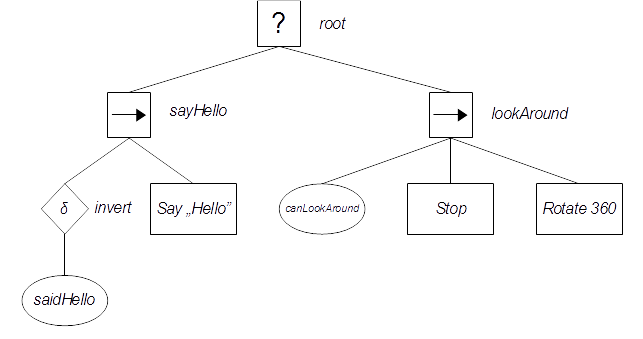
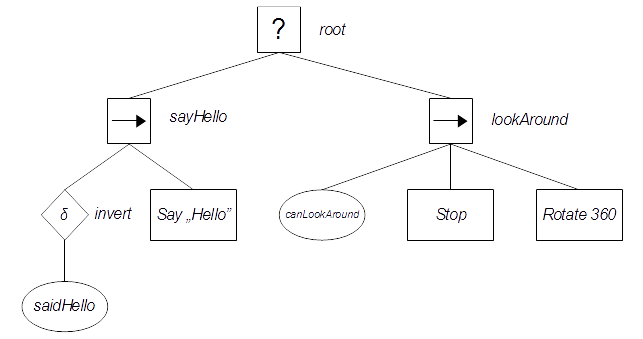
Edited the example in main.cpp. Corrected example_behavior_tree.png graphics. Finished readme.

diff --git a/main.cpp b/main.cpp
@@ -29,7 +29,6 @@
 class Actor
 {
 public:
-
     Actor(): said_hello{false},
              rotating{false}
     {
@@ -60,7 +59,7 @@ public:
         static int stopped_counter = 0;
         ++stopped_counter;
 
-        if(stopped_counter % 3) // 2/3 of checks will fail
+        if(stopped_counter % 3 == 0) // 2/3 of checks will fail
         {
             return true;
         }
@@ -81,7 +80,7 @@ public:
 
         ++rotate_counter;
 
-        if(rotate_counter % 5) // 4/5 of checks will confirm that actor is rotating
+        if(rotate_counter % 5 == 0) // 4/5 of checks will confirm that actor is rotating
         {
             return false;
         }
@@ -119,7 +118,7 @@ int main()
 
     example_tree.add_invert();
 
-    // go to first child of 'sayHello' sequence node:
+    // go to first child of invert decorator node:
     example_tree.set_at_relatively(0);
 
     // saidHello condition node:
@@ -172,7 +171,7 @@ int main()
     // If we want to evaluate whole tree, we have to set root node as active:
     example_tree.set_at_absolutely();
 
-    for(int i = 0; i < 15; ++i)
+    for(int i = 0; i < 50; ++i)
     {
         std::cout << i << " iteration\n";
 

diff --git a/README.md b/README.md
@@ -7,15 +7,18 @@ More about BT concept you can find in [Doctoral Thesis "Behavior Trees in Roboti
 ## How does it work?
 
 It defines basic types of nodes used in behavior trees, like composites (selector and sequence), decorators (link, inversion, loop) and primitives (action and condition).
-To provide resource-safe interface exists `BehaviorTree` class, which is kind of manager for raw behavior nodes.
 
-At first you have to create instance of `BehaviorTree` class and fill it with behavior nodes. Then you can call `evaluate()` method on it and check tree's status, probably in some periodic way. 
+To provide uniform interface there is implemented `BehaviorTree` class, which is an manager for raw behavior nodes.
+
+At first you have to create instance of `BehaviorTree` class and fill it with behavior nodes. Then you can call `evaluate()` method on it and check tree's status, probably in some periodic way.
+
+For more please look at the [example]() section.
 
 ## Structure of project
 
-Code of the BT system is located in 'behavior_system' directory.
-There is also 'external' directory, which contains [Catch](https://github.com/catchorg/Catch2) library header.
-Last part of repository is 'unit_tests' directory which contains unit tests of the BT system.
+Code of the BT system is located in *behavior_system* directory.
+There is also *external* directory, which contains [Catch](https://github.com/catchorg/Catch2) library header.
+Last part of repository is *unit_tests* directory which contains unit tests of the BT system.
 
 Behavior system is main part of project: it contains definitions of nodes and tree structure. 
 
@@ -30,9 +33,14 @@ Class `IBehavior` [source: [[1]](./behavior_system/IBehavior.hpp) [[2]](./behavi
 1. `DecoratorLink` - [source: [[1]](./behavior_system/decorator/DecoratorLink.hpp) [[2]](./behavior_system/decorator/DecoratorLink.cpp)],
 1. `DecoratorMaxNTries` - [source: [[1]](./behavior_system/decorator/DecoratorMaxNTries.hpp) [[2]](./behavior_system/decorator/DecoratorMaxNTries.cpp)].
 
-`BehaviorTree` class is implemented in 'behavior_system/tree' directory [source: [[1]](./behavior_system/tree/BehaviorTree.hpp) [[2]](./behavior_system/tree/BehaviorTree.cpp)].
+`BehaviorTree` class is implemented in *behavior_system/tree* directory [source: [[1]](./behavior_system/tree/BehaviorTree.hpp) [[2]](./behavior_system/tree/BehaviorTree.cpp)].
+
+BT system is prepared for use with an graphical editor, necessary data for rendering an tree are stored in _EditorMetadata_ files [[[1]](./behavior_system/EditorMetadata.hpp) [[2]](./behavior_system/EditorMetadata.cpp)]. The source code of editor should appears on my GH in close future. :) 
 
 ## How to use this code?
+
+To make use of this project just import *behavior_system* directory ito your own project.
+To use `BehaviorTree` class, include *behavior_system/tree/BehaviorTree.hpp* file. 
 
 Basic idea is simple:
 1. create `BehaviorTree` object,
@@ -48,11 +56,44 @@ Basic idea is simple:
 1. send another evaluation signal,
 1. check return status,
 1. ...  
+
+For more please look at the [example]() section.
+
+To make your own behavior node type:
+* Create class with `IBehavior` class as a base.
+* Override `BehaviorState internal_evaluate(id_t id)` method with designed behavior.
+  > Parameter `id_t id` points to particular child to evaluation (it's an index for `IBehavior::ptr get_child_for_eval(id_t id)` method).
   
+* [optional] Override others virtual methods, for example `bool can_have_children()`.
+* Extend the `BehaviorTree` class by `bool add_my_new_fancy_behavior_node(some_optional parameters_if_needed)`.
+ 
+## Who will use this project?
+
+Everyone who needs behavior trees' based AI system. :) Project is distributed under [MIT license](https://opensource.org/licenses/MIT).
+
+## What is the purpose of this project?
+
+This project was designed as a part of my BSc thesis - "The control system of an autonomous mobile robot based on behavioral tree". The robot runs on ARM Cortex processor so in the code you can find parts designed for ARM architecture, but whole system is fully portable - source code is completely compatible with ISO C++14 standard. The main goal in the implementation was portability - you can use the system in embedded environment or in PC game for example.
+
+## Todo
+
+* *Parallel* node is nice to have feature.
+* Maybe get rid of the inheritance model for behavior nodes and _templatize_ them?
+* There is need to keep some data which could be shared between nodes in a tree.
+  > some kind of dictionary (ID and value)?
+ 
+
+
+
+And a bit trivial things to do:
+* Add a namespace for project classes.
+* Add a bit more friendly to remember header for including `BehaviorTree` interface. 
 
 ## An example
 
-Lets assume that we want to create behavior tree like this one:
+_[complete example is located in [main.cpp](./main.cpp) file]_
+
+Let assume that we want to create behavior tree like this one:
 
 ![Example behavior tree](./example_behavior_tree.png)
 
@@ -64,7 +105,6 @@ Let assume that we have some class where `saidHello` is an bool member variable,
 class Actor
 {
 public:
-
     Actor(): said_hello{false},
              rotating{false}
     {
@@ -95,7 +135,7 @@ public:
         static int stopped_counter = 0;
         ++stopped_counter;
 
-        if(stopped_counter % 3) // 2/3 of checks will fail
+        if(stopped_counter % 3 == 0) // 2/3 of checks will fail
         {
             return true;
         }
@@ -103,7 +143,8 @@ public:
     }
 
     void stop()
-    {}
+    {
+    }
 
     bool is_still_rotating()
     {
@@ -115,7 +156,7 @@ public:
 
         ++rotate_counter;
 
-        if(rotate_counter % 5) // 4/5 of checks will confirm that actor is rotating
+        if(rotate_counter % 5 == 0) // 4/5 of checks will confirm that actor is rotating
         {
             return false;
         }
@@ -133,7 +174,7 @@ public:
     }
 
     bool said_hello;
-    
+
 private:
     bool rotating;
 };
@@ -157,45 +198,67 @@ BehaviorTree example_tree;
 example_tree.add_selector(); // root
 ```
    
-After creation of the root node, `BehaviorTree` automatically makes root active node. Now you can add children to root (beware: after adding any child except root, `BehaviorTree` WILL NOT automatically make it's active - this works only for root node!): 
+After creation of the root node, `BehaviorTree` automatically makes root active node. Now you can add children to root **(beware: after adding any child except root, `BehaviorTree` WILL NOT automatically make it's active - this works only for root node!)**: 
 
 ```C++
 example_tree.add_sequence(); // sayHello
 example_tree.add_sequence(); // lookAround
 ```  
 
-Now we have all of explicit root's children. Let's make "sayHello" node complete. First of all we have to make it's as active (for guidance look at [this](sfd)). 
+Now we have all of explicit root's children. Let's make "sayHello" node complete. First of all we have to make it as active.
+
+> #### Making node active
+>
+> To accomplish this task we can use two methods:
+> * `bool set_at_absolutely(ID id, ID id, ...)`
+>    
+>   This method choose active node as relative to root node. You can treat the parameter list as a path to wanted node. An ID is a zero-based index of children. Each subsequent identifier refers to the next level lower in the hierarchy. If you write `tree.set_at_absolutely(1, 3);`, you set as active fourth child of second child of root - if it exists method returns true, otherwise returns false and active node will not be change. Empty parameter list selects as active root node.
+>   
+> * `bool set_at_relatively(ID id, ID id, ...)`
+>
+>   This method choose active node as relative to currently active one. All the rules remain unchanged. Empty parameter list means "set as active node that node which is currently active", so it does not make any change. :)
+>   
+> As an short example please look at the picture below:
+>
+> ![Example tree structure](./example_tree.png)
+> 
+> Assume than active node is `c` (in each example below always `c` is currently active) and we've called:
+> * `set_at_relatively(2)`: now active is `h` node, return value is `true`.
+> * `set_at_relatively()`: still active is `c` node, return value is `true`.
+> * `set_at_relatively(2, 0)`: still active is `c` node, return value is `false`.
+> * `set_at_absolutely()`: now active is root node `a`, return value is `true`.
+> * `set_at_absolutely(0, 1)`: now active is `e` node, return value is `true`.
+> * `set_at_absolutely(2)`: still active is `c` node, return value is `false`.
+
  
 ```C++
 // set active node: first (zero-based indexing) child of root:
-example.set_at_absolutely(0); 
+example_tree.set_at_absolutely(0); 
 ```
 
 Now we want to add inversion node, "saidHello" condition node and then action node in which we actually say "Hello". 
 
-Method `add_condition` takes as parameter `std::function<bool()>`, so we can pass to this function for example a lambda.
+Method `add_condition` takes as parameter `std::function<bool()>`, so we can pass to this function for example a lambda expression.
+
 Similarly looks method `add_action` with the difference, that the type of return value of an needed functor is `BehaviorState` object.
 
 The code of left part our example_tree might looks like this:
 
 ```C++
-example.add_inversion();
+example_tree.add_invert();
+
+// go to first child of invert decorator node:
+example_tree.set_at_relatively(0);
 
 // saidHello condition node:
-example.add_condition([&hero]() 
-                      {
-                            return hero.said_hello();
-                      });
+example_tree.add_condition([&hero]()
+                           {
+                               return hero.said_hello;
+                           });
 
-// say "Hello" action node:                        
-example.add_action([&hero]() 
-                   {                        
-                        hero.say_hello();
-                        return BehaviorState::success;
-                   });
 ```
 
-`BehaviorState` type is an strongly typed enum with 4 values: `BehaviorState::success`, `BehaviorState::failure`,`BehaviorState::running` and `BehaviorState::undefined`. Last state, undefined, is reserved for internal use and it should be never explicit returned as a result from any action node.
+> `BehaviorState` type is an strongly typed enum with 4 values: `BehaviorState::success`, `BehaviorState::failure`,`BehaviorState::running` and `BehaviorState::undefined`. Last state, undefined, is reserved for internal use and it should be never explicit returned as a result from any action node.
 
 Now, when we know basic rules, lets create right part of `example_tree`:
 
@@ -237,7 +300,7 @@ We've just prepared simple behavior tree. Now we have to evaluate it in order to
 // If we want to evaluate whole tree, we have to set root node as active:
 example_tree.set_at_absolutely();
 
-for(int i = 0; i < 15; ++i)
+for(int i = 0; i < 50; ++i)
 {
     std::cout << i << " iteration\n";
 
@@ -264,92 +327,5 @@ for(int i = 0; i < 15; ++i)
 ```
 
 All source code of this example you can find in [main.cpp](./main.cpp).
-
-As the result of example code we get:
-```
-0 iteration
-Hello!
-- returned state: success
----
-1 iteration
-I'll turn 360 degrees!
-- returned state: success
----
-2 iteration
-- returned state: success
----
-3 iteration
-- returned state: running
----
-4 iteration
-- returned state: success
----
-5 iteration
-- returned state: success
----
-6 iteration
-- returned state: running
----
-7 iteration
-- returned state: running
----
-8 iteration
-- returned state: success
----
-9 iteration
-- returned state: failure
----
-10 iteration
-- returned state: failure
----
-11 iteration
-- returned state: failure
----
-12 iteration
-- returned state: failure
----
-13 iteration
-- returned state: failure
----
-14 iteration
-- returned state: failure
----
-```
       
-## Making active
 
-To accomplish this task we can use two methods:
-* `bool set_at_absolutely(ID id, ID id, ...)`
-    
-   This method choose active node as relative to root node. You can treat the parameter list as a path to wanted node. An ID is a zero-based index of children. Each subsequent identifier refers to the next level lower in the hierarchy. If you write `tree.set_at_absolutely(1, 3);`, you set as active fourth child of second child of root - if it exists method returns true, otherwise returns false and active node will not be change. Empty parameter list selects as active root node.
-   
-* `bool set_at_relatively(ID id, ID id, ...)`
-
-   This method choose active node as relative to currently active one. All the rules remain unchanged. Empty parameter list means "set as active node that node which is currently active", so it does not make any change. :)
-   
-As an short example please look at the picture below:
-
-![Example tree structure](./example_tree.png)
-
-Assume than active node is `c` (in each example below always `c` is currently active) and we've called:
-* `set_at_relatively(2)`: now active is `h` node, return value is `true`.
-* `set_at_relatively()`: still active is `c` node, return value is `true`.
-* `set_at_relatively(2, 0)`: still active is `c` node, return value is `false`.
-* `set_at_absolutely()`: now active is root node `a`, return value is `true`.
-* `set_at_absolutely(0, 1)`: now active is `e` node, return value is `true`.
-* `set_at_absolutely(2)`: still active is `c` node, return value is `false`.
-
-
-## Who will use this project?
-
-Everyone who needs behavior trees based AI system. :) Project is distributed under [MIT license](https://opensource.org/licenses/MIT).
-
-## What is the purpose of this project?
-
-This project was designed as a part of my BSc thesis - "The control system of an autonomous mobile robot based on behavioral tree". The robot runs on ARM Cortex processor so in the code you can find parts designed for ARM architecture, but whole system is fully portable - source code is completely compatible with ISO C++14 standard. The main goal in the implementation was portability - you can use the system in embedded environment or in PC game for example.
-
-## Todo
-
-There is need to keep some data which could be shared between nodes in a tree [some kind of dictionary (ID and value)?].
-
-'Parallel' node is nice to have feature. 
